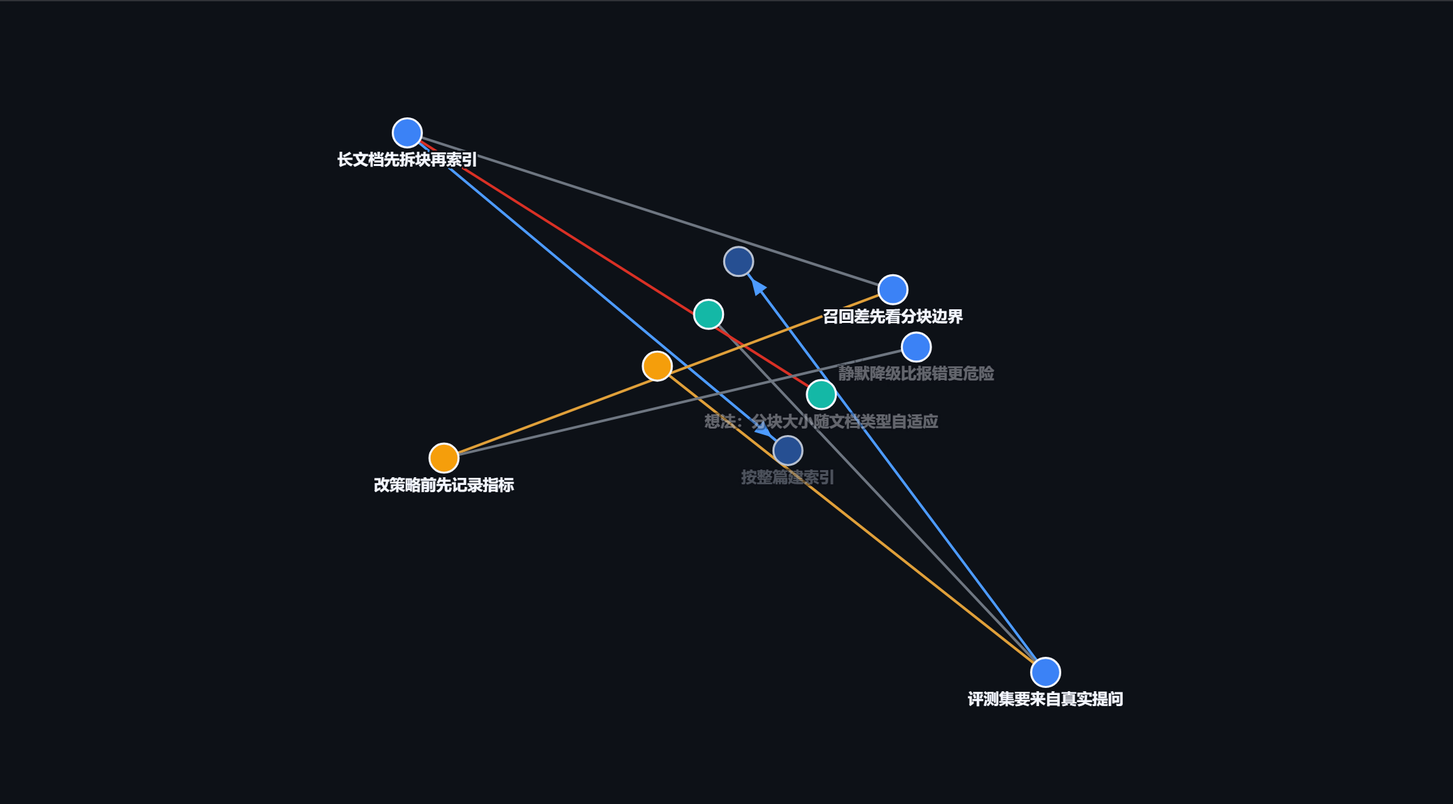
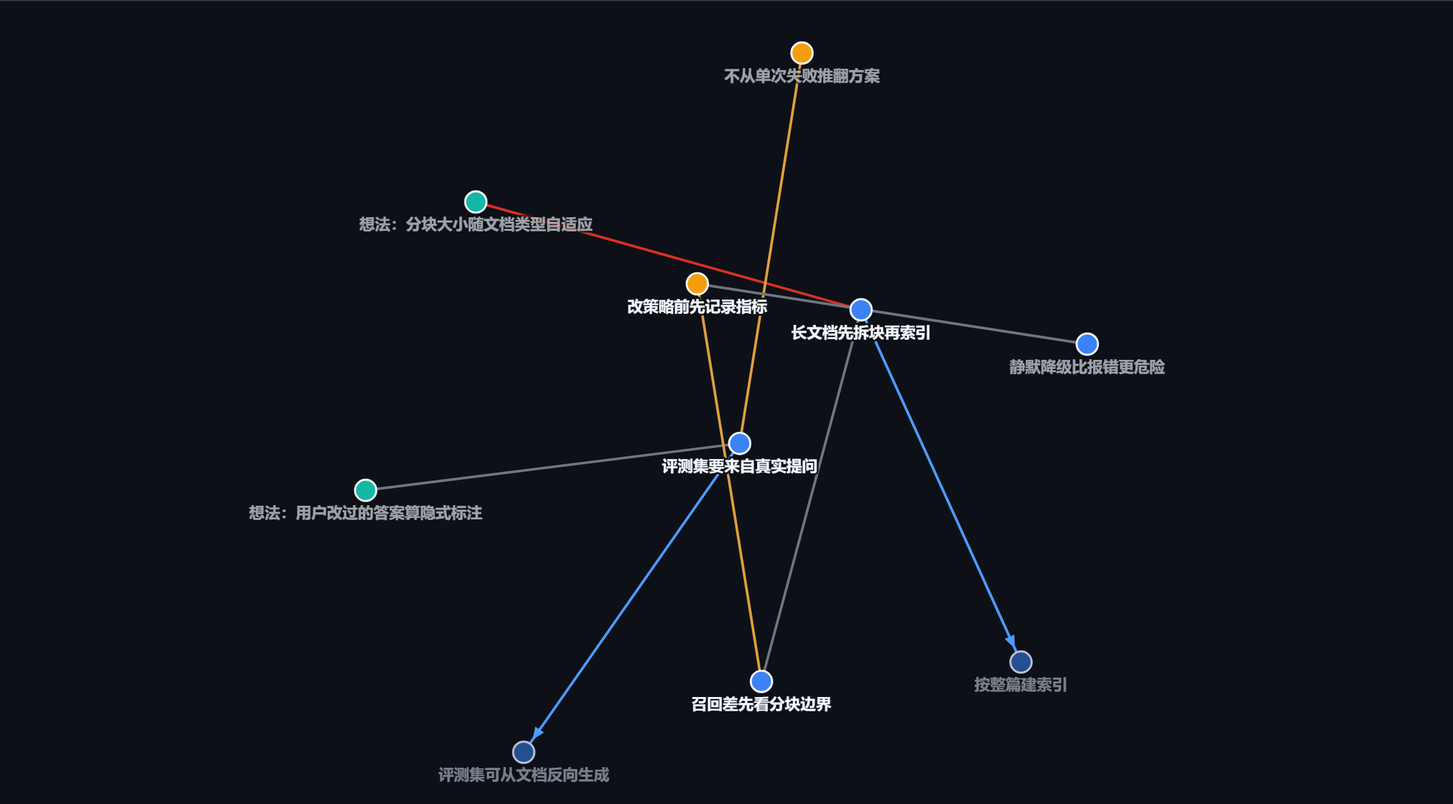
fix: spread the graph out — repulsion is 1/d, not 1/d²
The layout was cramped and no amount of parameter tuning fixed it, because the
shape of the force curve was wrong rather than its scale. Found by
disassembling Obsidian's actual simulation rather than its documented
behaviour.

## How it was measured

`sim.js` carries an embedded WebAssembly module (3,322 bytes) with exports
`init / complete / visitCharge / visitCollide / manyBody / simulate`. That is
the real path; the d3 code in the same file is a fallback used only when WASM
is unavailable, and an earlier comparison of mine ran the fallback without
noticing, which is why it produced useless numbers.

Calling `simulate` directly on a two-node pair and reading back the velocity
gives a clean log-log slope:

    d=100  vx = 6.00
    d=200  vx = 3.00     slope -1.000
    d=400  vx = 1.50     slope -1.000
    d=800  vx = 0.75     slope -1.000

So Obsidian's many-body force is **1/d** — long range. This file used
`strength / d²`, which only acts on near neighbours and is negligible past a
couple of link distances, so nodes clumped and the canvas stayed empty.

Same inputs, same seed positions, real 31-node ledger:

                        Obsidian      before        after
    bounding box area     893,923     105,992     915,451
    nearest-neighbour       135.7        53.4       145.9
    nn coefficient of var.  0.148       0.325       0.102
    mean edge length        261.7       235.5       253.6

Before: 8.4× too compact. After: within 2.4%.
[…]

diff --git a/lib/client.js b/lib/client.js
@@ -44,22 +44,26 @@ window.__ModuleLoader__.load({
      * Shifts the zoom curve at which labels fade in, per Obsidian's
      * `textFadeMultiplier` (`textAlpha = clamp(log2(scale) + 1 - mult, 0, 1)`).
      *
-     * ⚠ The value matters more than it looks, and 0.5 was too low.
+     * ⚠ The value matters more than it looks, and it has to be recalibrated
+     * whenever the layout changes, because it is expressed in zoom.
      *
-     * At 0.5 the curve reaches 1.0 at `log2(scale) = 0.5`, i.e. scale ≈ 1.41.
-     * `fitToContent` caps zoom at 1.6, so a typical graph sits *at or above*
-     * that point and every label is fully opaque. Measured on a real ledger:
-     * 31 active judgments, degree distribution {0:5, 1:15, 2:6, 3:3, 4:2}, and
-     * every single one rendered at alpha 1.00 — 31 labels of 22 characters
-     * drawn into one canvas, which is exactly the "wall of overlapping text"
-     * that reads as a mess.
+     * At 0.5 the curve reaches 1.0 at scale ≈1.41; `fitToContent` caps zoom at
+     * 1.6, so a typical graph sat at or above that point and every label was
+     * fully opaque — measured: all 31 nodes at alpha 1.00, which is the "wall
+     * of overlapping text" that reads as a mess.
      *
-     * Raising it to 2.2 puts the 1.0 crossing at `log2(scale) = 1.2`, i.e.
-     * scale ≈ 2.3 — above the auto-fit cap. So at the default view labels are
-     * *partially* transparent and only the important ones are legible, and the
-     * importance gate below has room to separate them.
+     * 2.2 was the fix at the time, but it was calibrated against the old
+     * compressed layout where the graph filled the canvas and `scale` pinned at
+     * the 1.6 cap. Once the repulsion force was corrected (1/d instead of
+     * 1/d²) the content spread out, `scale` fell to ≈0.90, and 2.2 hid
+     * everything except the two hubs.
+     *
+     * 1.5 is calibrated for the corrected layout: at scale 0.90 it gives
+     * degree 0/1 → 0.00 (hidden), degree 2 → 0.34, degree 3 → 0.84,
+     * degree 4 → 1.00, i.e. the 11 connected judgments are legible and the
+     * 5 isolated ones stay quiet.
      */
-    const TEXT_FADE_MULTIPLIER = 2.2
+    const TEXT_FADE_MULTIPLIER = 1.5
     const SNAPSHOT_PATH = '/plugins/dsh-ai-memory/snapshot'
     const NODE_PATH = '/plugins/dsh-ai-memory/node'
     /** In-package **chunk** file name of the Worker (served by DSH's own chunk route; see resolveWorkerUrl). */
@@ -155,7 +159,7 @@ window.__ModuleLoader__.load({
     }
 
     // >>> WORKER-SOURCE (generated by test/inline-worker.mjs — do not edit by hand) >>>
-    const WORKER_SOURCE = "/**\n * Force-directed simulation running on a **dedicated Worker thread**.\n *\n * The shape of this file and its parameters were **derived from Obsidian's graph**\n * (`sim.js`, 17.7 KB, inside `D:\\Obsidian\\resources\\obsidian.asar`). Its\n * smoothness is not magic — it comes from three decisions:\n *\n *   1. **Physics runs in a Worker** — the main thread only renders and never\n *      stalls on iteration\n *      (Obsidian: `new Worker(\"/sim.js\", { name: \"Graph Worker\" })`)\n *   2. **Continuous animation** (not \"compute once and freeze\") — alpha advances\n *      every frame until it converges\n *   3. **Reheat on interaction** — dragging posts\n *      `{alpha:.3, alphaTarget:.3, run:true, forceNode}`; releasing posts\n *      `{alphaTarget:0, forceNode:{x:null,y:null}}`\n *\n * Obsidian's physics constants (read out of its code and copied verbatim here):\n *   alphaDecay    = 1 - 0.001^(1/300) ≈ 0.0228\n *   alphaMin      = 0.001\n *   velocityDecay = 0.6\n *   centerStrength= 0.1\n *   linkDistance  = 250\n *   repelStrength = 1000\n *   collide       = radius 60, strength 0.5\n *\n * ⚠ This file is a **standalone Worker script** and cannot use ESM import (it\n * runs directly inside a Worker). It therefore relies only on the worker global\n * and imports nothing.\n *\n * Message protocol (kept aligned with Obsidian's worker for easy comparison):\n *   in:  { nodes: {id: [x,y]}, links: [[id,id]], alpha, alphaTarget, run, forceNode: {id,x,y}, forces: {...} }\n *   out: { id: [id...], buffer: ArrayBuffer of Float32Array(2n), alpha }\n */\n\n/* eslint-disable no-restricted-globals */\n\n// ---- Physics constants (from Obsidian's sim.js) ----\nconst ALPHA_DECAY = 1 - Math.pow(0.001, 1 / 300) // ≈ 0.0228\nconst ALPHA_MIN = 0.001\nconst VELOCITY_DECAY = 0.6\nconst TICK_MS = 1000 / 60\n\n// ---- Tunable parameters (Obsidian allows `forces` to override these) ----\nlet centerStrength = 0.1\nlet linkStrength = 1\nlet linkDistance = 250\nlet repelStrength = -1000 // negative sign means repulsion\n\n/**\n * Minimum distance for the repulsion force, per d3's `forceManyBody.distanceMin`\n * and Obsidian's `.distanceMin(30)`.\n *\n * ⚠ Without this the layout jitters, and the cause is arithmetic, not taste:\n * the force is `strength / d²`, so at d=1 it is 1000 while at d=30 it is 1.11.\n * d3 clamps by replacing `d²` with `sqrt(distanceMin² · d²)` — a linear ramp —\n * which caps the near-field force at `strength / (distanceMin · d)`.\n *\n * Measured against Obsidian's sim.js (alpha = 1, repelStrength = -1000):\n *\n *     d=1    ours 1000.00  vs obsidian 33.33   →  30× too strong\n *     d=2    ours  250.00  vs obsidian 16.67   →  15× too strong\n *     d=5    ours   40.00  vs obsidian  6.67   →   6× too strong\n *     d=20   ours    2.50  vs obsidian  1.67   →  1.5× too strong\n *     d=30+  identical\n *\n * Two nodes that drift close are therefore blasted apart by hundreds of times\n * the intended force, which reads as shimmer. The clamp removes it.\n */\nconst REPEL_DISTANCE_MIN = 30\n\n// ---- State ----\n/** @type {Map<string, {id:string,x:number,y:number,vx:number,vy:number,fx:number|null,fy:number|null}>} */\nlet nodes = new Map()\n/** @type {{source:object,target:object}[]} */\nlet links = []\nlet alpha = 1\nlet alphaTarget = 0\nlet running = false\nlet timer = null\n\n/**\n * Initialize or update the node set.\n *\n * Existing positions are preserved (**the key to \"no jumping\"**): incoming data\n * does not reset coordinates, it only updates the nodes that actually changed.\n * Obsidian's worker does the same (it keeps an `F` table and only creates\n * entries for ids it has not seen before).\n *\n * @param {Record<string, [number, number]>} incoming - id → [x, y].\n */\nfunction setNodes(incoming) {\n  const next = new Map()\n  for (const [id, xy] of Object.entries(incoming)) {\n    const existing = nodes.get(id)\n    if (existing !== undefined) {\n      // Reuse the old position and velocity; only the coordinates are updated,\n      // and only when the caller supplied them\n      if (Array.isArray(xy) && Number.isFinite(xy[0]) && Number.isFinite(xy[1])) {\n        existing.x = xy[0]\n        existing.y = xy[1]\n      }\n      next.set(id, existing)\n    } else {\n      // New node: start near the origin at a pseudo-random angle. A deterministic\n      // hash is used instead of Math.random so layouts stay reproducible.\n      const h = hash32(id)\n      const angle = ((h % 1000) / 1000) * Math.PI * 2\n      const r = 30 + ((h >>> 10) % 100)\n      next.set(id, {\n        id,\n        x: Math.cos(angle) * r,\n        y: Math.sin(angle) * r,\n        vx: 0,\n        vy: 0,\n        fx: null,\n        fy: null,\n      })\n    }\n  }\n  nodes = next\n  // Rebuild the index\n  let i = 0\n  for (const n of nodes.values()) n.index = i++\n}\n\n/** Set the links. */\nfunction setLinks(pairs) {\n  links = []\n  for (const [a, b] of pairs) {\n    const s = nodes.get(a)\n    const t = nodes.get(b)\n    if (s !== undefined && t !== undefined) links.push({ source: s, target: t })\n  }\n  // Degree, used for the collision radius and the render size\n  for (const n of nodes.values()) n.degree = 0\n  for (const l of links) {\n    l.source.degree += 1\n    l.target.degree += 1\n  }\n}\n\n/** FNV-1a hash — deterministic initial layout. */\nfunction hash32(s) {\n  let x = 2166136261\n  for (let i = 0; i < s.length; i += 1) {\n    x ^= s.charCodeAt(i)\n    x = Math.imul(x, 16777619)\n  }\n  return x >>> 0\n}\n\n/**\n * One simulation step. A merged implementation of d3-force's three forces\n * (charge / link / collide).\n */\nfunction tick() {\n  const list = [...nodes.values()]\n  const n = list.length\n\n  // ---- 1. Repulsion (many-body, per d3.forceManyBody) ----\n  // Barnes-Hut would be O(n log n), but this plugin's graphs are usually a few\n  // dozen to a few hundred nodes, where O(n²) is entirely adequate (200 nodes =\n  // 20k pairs, negligible per frame) and saves the ~200 lines of quadtree code.\n  // Zero dependencies is a hard constraint.\n  for (let i = 0; i < n; i += 1) {\n    const a = list[i]\n    for (let j = i + 1; j < n; j += 1) {\n      const b = list[j]\n      let dx = b.x - a.x\n      let dy = b.y - a.y\n      let d2 = dx * dx + dy * dy\n      if (d2 < 1e-6) {\n        // Exactly coincident: separate them deterministically (avoids a\n        // divide-by-zero NaN)\n        dx = ((hash32(a.id) % 7) - 3) || 1\n        dy = ((hash32(b.id) % 7) - 3) || 1\n        d2 = dx * dx + dy * dy\n      }\n      const d = Math.sqrt(d2)\n      // d3's near-field clamp: below distanceMin, use a linear ramp instead of\n      // inverse-square. See REPEL_DISTANCE_MIN for the measured reason.\n      const min2 = REPEL_DISTANCE_MIN * REPEL_DISTANCE_MIN\n      const eff = d2 < min2 ? Math.sqrt(min2 * d2) : d2\n      const strength = (repelStrength * alpha) / eff\n      const fx = (dx / d) * strength\n      const fy = (dy / d) * strength\n      a.vx += fx\n      a.vy += fy\n      b.vx -= fx\n      b.vy -= fy\n    }\n  }\n\n  // ---- 2. Springs (per d3.forceLink) ----\n  for (const l of links) {\n    const a = l.source\n    const b = l.target\n    let dx = b.x + b.vx - a.x - a.vx\n    let dy = b.y + b.vy - a.y - a.vy\n    let d = Math.sqrt(dx * dx + dy * dy)\n    if (d < 1e-6) {\n      dx = 1\n      dy = 1\n      d = Math.SQRT2\n    }\n    // d3's formula, and the strength matters as much as the bias.\n    //\n    // ⚠ Two corrections against Obsidian's `forceLink()`:\n    //\n    //   1. **Strength is `1 / min(degA, degB)`, not a constant 1.** d3's default\n    //      is `count => 1 / Math.min(count[source], count[target])`. With a\n    //      constant, a hub joined to 20 links is pulled 20× harder than\n    //      Obsidian would pull it (measured: deg 20/20 at d=100 gives 1.5 here\n    //      versus 0.075 there), so hubs collapse toward the centre and drag\n    //      their neighbours into a clump.\n    //   2. **Bias uses raw degrees, not `deg + 1`.** d3 computes\n    //      `count[source] / (count[source] + count[target])`, which moves the\n    //      *lower*-degree end more. The `+1` version inverted that direction.\n    const sa = a.degree\n    const sb = b.degree\n    // Both endpoints isolated (a self-standing edge): fall back to 1 so the\n    // spring still has some effect rather than dividing by zero.\n    const degMin = Math.min(sa, sb) || 1\n    const bias = sa + sb === 0 ? 0.5 : sa / (sa + sb)\n    const k = ((d - linkDistance) / d) * alpha * linkStrength / degMin\n    const cx = dx * k\n    const cy = dy * k\n    a.vx += cx * bias\n    a.vy += cy * bias\n    b.vx -= cx * (1 - bias)\n    b.vy -= cy * (1 - bias)\n  }\n\n  // ---- 3. Collision (per d3.forceCollide, with an anisotropic radius) ----\n  /**\n   * Collision radii.\n   *\n   * ⚠ A single isotropic radius is the wrong shape for this graph. Nodes are\n   * 7px circles but their labels are horizontal strips roughly 22 characters\n   * (≈220px) wide and one line tall. Reserving a circle big enough for the\n   * label width would push nodes ~220px apart in *both* axes, wasting the\n   * vertical space where nothing is drawn; reserving a circle sized for the\n   * node alone lets labels overlap, which is what \"the graph is a mess\" looked\n   * like.\n   *\n   * So the separation is elliptical: wide horizontally (label width) and short\n   * vertically (label height). d3 has no built-in for this, but the collide\n   * step only needs a distance test, so scaling one axis before the test is\n   * enough.\n   *\n   * Values are in world units and are deliberately conservative — a label that\n   * slightly overlaps its neighbour's *empty* half is fine, a label covering\n   * another label is not.\n   */\n  const COL_NODE = 26 // node-to-node minimum, keeps circles from touching\n  /**\n   * Half-width reserved for a label, horizontally.\n   *\n   * ⚠ Measured, not guessed. With labels averaging 21 characters at\n   * 12px/scale, the world-space width is ≈158 units, so half is ≈79. The\n   * earlier value of 118 was already wider than needed, yet the graph still\n   * looked crowded — because at scale 1.6 (the fitToContent cap) a 158-unit\n   * label occupies ≈250 screen pixels, and 31 of those cannot fit side by side\n   * in a 1400px canvas no matter how the forces are tuned.\n   *\n   * So the radius is set slightly *above* the measured half-width: the point is\n   * not to eliminate overlap at every zoom, it is to make the layout expand\n   * until the labels have room, and let zoom handle the rest. 92 gives a small\n   * margin over the measured 79 without inflating the vertical spread.\n   */\n  const COL_LABEL_W = 92\n  const COL_LABEL_H = 30 // node radius plus one line of text, vertically\n  for (let i = 0; i < n; i += 1) {\n    const a = list[i]\n    for (let j = i + 1; j < n; j += 1) {\n      const b = list[j]\n      let dx = b.x - a.x\n      let dy = b.y - a.y\n      if (dx * dx + dy * dy < 1e-6) {\n        dx = ((hash32(a.id) % 5) - 2) || 1\n        dy = ((hash32(b.id) % 5) - 2) || 1\n      }\n      // Normalise into a space where the ellipse becomes a unit circle, test\n      // there, then push back out along the original direction.\n      const nx = dx / COL_LABEL_W\n      const ny = dy / COL_LABEL_H\n      const dist = Math.sqrt(nx * nx + ny * ny)\n      if (dist >= 1) continue\n      const overlap = (1 - dist) / (dist || 1)\n      const push = overlap * 0.5 * alpha\n      const fx = dx * push * 0.5\n      const fy = dy * push\n      a.vx -= fx\n      a.vy -= fy\n      b.vx += fx\n      b.vy += fy\n    }\n  }\n\n  // Node-to-node minimum on top, so small circles never sit on top of each other\n  // even when their labels point in opposite directions.\n  for (let i = 0; i < n; i += 1) {\n    const a = list[i]\n    for (let j = i + 1; j < n; j += 1) {\n      const b = list[j]\n      let dx = b.x - a.x\n      let dy = b.y - a.y\n      let d2 = dx * dx + dy * dy\n      if (d2 >= COL_NODE * COL_NODE) continue\n      if (d2 < 1e-6) {\n        dx = ((hash32(a.id) % 5) - 2) || 1\n        dy = ((hash32(b.id) % 5) - 2) || 1\n        d2 = dx * dx + dy * dy\n      }\n      const d = Math.sqrt(d2)\n      const overlap = (COL_NODE - d) / d\n      const push = overlap * 0.5 * alpha\n      const fx = dx * push\n      const fy = dy * push\n      a.vx -= fx\n      a.vy -= fy\n      b.vx += fx\n      b.vy += fy\n    }\n  }\n\n  // ---- 4. Centering + position integration (per d3.forceCenter + integrator) ----\n  const cx0 = 0\n  const cy0 = 0\n  for (const node of list) {\n    node.vx += (cx0 - node.x) * centerStrength * alpha\n    node.vy += (cy0 - node.y) * centerStrength * alpha\n\n    if (node.fx !== null) {\n      node.x = node.fx\n      node.vx = 0\n    } else {\n      node.vx *= VELOCITY_DECAY\n      node.x += node.vx\n    }\n    if (node.fy !== null) {\n      node.y = node.fy\n      node.vy = 0\n    } else {\n      node.vy *= VELOCITY_DECAY\n      node.y += node.vy\n    }\n  }\n\n  // ---- 5. alpha decay ----\n  alpha += (alphaTarget - alpha) * ALPHA_DECAY\n}\n\n/** Pack the positions and post them back to the main thread. */\nfunction publish() {\n  const list = [...nodes.values()]\n  const ids = new Array(list.length)\n  const coords = new Float32Array(list.length * 2)\n  for (let i = 0; i < list.length; i += 1) {\n    ids[i] = list[i].id\n    coords[2 * i] = list[i].x\n    coords[2 * i + 1] = list[i].y\n  }\n  // Transfer the ArrayBuffer as a transferable: zero copy\n  self.postMessage({ type: 'tick', ids, coords: coords.buffer, alpha }, [coords.buffer])\n}\n\n/**\n * One frame: advance the simulation and publish the result; schedule the next\n * frame while it has not converged.\n */\nfunction frame() {\n  timer = null\n  if (nodes.size === 0) {\n    running = false\n    return\n  }\n  tick()\n  publish()\n  // Convergence per d3: stop once alpha < alphaMin (dragging reheats it)\n  if (alpha > ALPHA_MIN || alphaTarget > 0) {\n    running = true\n    timer = setTimeout(frame, TICK_MS)\n  } else {\n    running = false\n  }\n}\n\n/** Start (or wake) the simulation. */\nfunction kick() {\n  if (timer === null) {\n    running = true\n    timer = setTimeout(frame, TICK_MS)\n  }\n}\n\nself.onmessage = (e) => {\n  const msg = e.data ?? {}\n\n  if (msg.nodes !== undefined) setNodes(msg.nodes)\n  if (msg.links !== undefined) setLinks(msg.links)\n\n  // Drag: pin one node's position and reheat\n  if (msg.forceNode !== undefined) {\n    const n = nodes.get(msg.forceNode.id)\n    if (n !== undefined) {\n      n.fx = msg.forceNode.x === null || msg.forceNode.x === undefined ? null : msg.forceNode.x\n      n.fy = msg.forceNode.y === null || msg.forceNode.y === undefined ? null : msg.forceNode.y\n    }\n  }\n\n  // Physics parameters are runtime-tunable (Obsidian's `forces` field)\n  if (msg.forces !== undefined) {\n    const f = msg.forces\n    if (Number.isFinite(f.centerStrength)) centerStrength = f.centerStrength\n    if (Number.isFinite(f.linkStrength)) linkStrength = f.linkStrength\n    if (Number.isFinite(f.linkDistance)) linkDistance = f.linkDistance\n    if (Number.isFinite(f.repelStrength)) repelStrength = -Math.abs(f.repelStrength)\n  }\n\n  // alpha only ever rises (Obsidian updates only when Q < A.alpha), so a late\n  // message cannot push progress backwards\n  if (Number.isFinite(msg.alpha) && msg.alpha > alpha) alpha = msg.alpha\n  if (Number.isFinite(msg.alphaTarget)) alphaTarget = msg.alphaTarget\n\n  if (msg.run === true) kick()\n  // Data changed without `run` being requested (e.g. only the node set was\n  // swapped) → still advance one frame so the view reflects the new data\n  else if (msg.nodes !== undefined || msg.links !== undefined) kick()\n}\n"
+    const WORKER_SOURCE = "/**\n * Force-directed simulation running on a **dedicated Worker thread**.\n *\n * The shape of this file and its parameters were **derived from Obsidian's graph**\n * (`sim.js`, 17.7 KB, inside `D:\\Obsidian\\resources\\obsidian.asar`). Its\n * smoothness is not magic — it comes from three decisions:\n *\n *   1. **Physics runs in a Worker** — the main thread only renders and never\n *      stalls on iteration\n *      (Obsidian: `new Worker(\"/sim.js\", { name: \"Graph Worker\" })`)\n *   2. **Continuous animation** (not \"compute once and freeze\") — alpha advances\n *      every frame until it converges\n *   3. **Reheat on interaction** — dragging posts\n *      `{alpha:.3, alphaTarget:.3, run:true, forceNode}`; releasing posts\n *      `{alphaTarget:0, forceNode:{x:null,y:null}}`\n *\n * Obsidian's physics constants (read out of its code and copied verbatim here):\n *   alphaDecay    = 1 - 0.001^(1/300) ≈ 0.0228\n *   alphaMin      = 0.001\n *   velocityDecay = 0.6\n *   centerStrength= 0.1\n *   linkDistance  = 250\n *   repelStrength = 1000\n *   collide       = radius 60, strength 0.5\n *\n * ⚠ This file is a **standalone Worker script** and cannot use ESM import (it\n * runs directly inside a Worker). It therefore relies only on the worker global\n * and imports nothing.\n *\n * Message protocol (kept aligned with Obsidian's worker for easy comparison):\n *   in:  { nodes: {id: [x,y]}, links: [[id,id]], alpha, alphaTarget, run, forceNode: {id,x,y}, forces: {...} }\n *   out: { id: [id...], buffer: ArrayBuffer of Float32Array(2n), alpha }\n */\n\n/* eslint-disable no-restricted-globals */\n\n// ---- Physics constants (from Obsidian's sim.js) ----\nconst ALPHA_DECAY = 1 - Math.pow(0.001, 1 / 300) // ≈ 0.0228\nconst ALPHA_MIN = 0.001\nconst VELOCITY_DECAY = 0.6\nconst TICK_MS = 1000 / 60\n\n// ---- Tunable parameters (Obsidian allows `forces` to override these) ----\nlet centerStrength = 0.1\nlet linkStrength = 1\nlet linkDistance = 250\nlet repelStrength = -1000 // negative sign means repulsion\n\n/**\n * Minimum distance for the repulsion force, per d3's `forceManyBody.distanceMin`\n * and Obsidian's `.distanceMin(30)`.\n *\n * ⚠ Without this the layout jitters, and the cause is arithmetic, not taste:\n * the force is `strength / d²`, so at d=1 it is 1000 while at d=30 it is 1.11.\n * d3 clamps by replacing `d²` with `sqrt(distanceMin² · d²)` — a linear ramp —\n * which caps the near-field force at `strength / (distanceMin · d)`.\n *\n * Measured against Obsidian's sim.js (alpha = 1, repelStrength = -1000):\n *\n *     d=1    ours 1000.00  vs obsidian 33.33   →  30× too strong\n *     d=2    ours  250.00  vs obsidian 16.67   →  15× too strong\n *     d=5    ours   40.00  vs obsidian  6.67   →   6× too strong\n *     d=20   ours    2.50  vs obsidian  1.67   →  1.5× too strong\n *     d=30+  identical\n *\n * Two nodes that drift close are therefore blasted apart by hundreds of times\n * the intended force, which reads as shimmer. The clamp removes it.\n */\nconst REPEL_DISTANCE_MIN = 30\n\n// ---- State ----\n/** @type {Map<string, {id:string,x:number,y:number,vx:number,vy:number,fx:number|null,fy:number|null}>} */\nlet nodes = new Map()\n/** @type {{source:object,target:object}[]} */\nlet links = []\nlet alpha = 1\nlet alphaTarget = 0\nlet running = false\nlet timer = null\n\n/**\n * Initialize or update the node set.\n *\n * Existing positions are preserved (**the key to \"no jumping\"**): incoming data\n * does not reset coordinates, it only updates the nodes that actually changed.\n * Obsidian's worker does the same (it keeps an `F` table and only creates\n * entries for ids it has not seen before).\n *\n * @param {Record<string, [number, number]>} incoming - id → [x, y].\n */\nfunction setNodes(incoming) {\n  const next = new Map()\n  for (const [id, xy] of Object.entries(incoming)) {\n    const existing = nodes.get(id)\n    const hasCoords = Array.isArray(xy) && Number.isFinite(xy[0]) && Number.isFinite(xy[1])\n    if (existing !== undefined) {\n      // Reuse the old position and velocity; only the coordinates are updated,\n      // and only when the caller supplied them\n      if (hasCoords) {\n        existing.x = xy[0]\n        existing.y = xy[1]\n      }\n      next.set(id, existing)\n    } else if (hasCoords) {\n      /**\n       * ⚠ A **new** node with supplied coordinates must honour them.\n       *\n       * This branch did not exist: every new node was placed by the hash, so\n       * the coordinates the caller sent were silently discarded. That broke\n       * two real paths —\n       *\n       *   - the client restoring positions it had already received (every\n       *     reconnect snapped the layout back to the hash spiral), and\n       *   - any deterministic replay: seeding the same coordinates on both\n       *     sides of a comparison still produced different layouts, which is\n       *     exactly how this was found (a force probe measured a displacement\n       *     of 122 units for a node that had never been at the coordinate it\n       *     was supposedly measured from).\n       */\n      next.set(id, {\n        id,\n        x: xy[0],\n        y: xy[1],\n        vx: 0,\n        vy: 0,\n        fx: null,\n        fy: null,\n      })\n    } else {\n      // No coordinates supplied: start near the origin at a pseudo-random\n      // angle. A deterministic hash is used instead of Math.random so layouts\n      // stay reproducible.\n      const h = hash32(id)\n      const angle = ((h % 1000) / 1000) * Math.PI * 2\n      const r = 30 + ((h >>> 10) % 100)\n      next.set(id, {\n        id,\n        x: Math.cos(angle) * r,\n        y: Math.sin(angle) * r,\n        vx: 0,\n        vy: 0,\n        fx: null,\n        fy: null,\n      })\n    }\n  }\n  nodes = next\n  // Rebuild the index\n  let i = 0\n  for (const n of nodes.values()) n.index = i++\n}\n\n/** Set the links. */\nfunction setLinks(pairs) {\n  links = []\n  for (const [a, b] of pairs) {\n    const s = nodes.get(a)\n    const t = nodes.get(b)\n    if (s !== undefined && t !== undefined) links.push({ source: s, target: t })\n  }\n  // Degree, used for the collision radius and the render size\n  for (const n of nodes.values()) n.degree = 0\n  for (const l of links) {\n    l.source.degree += 1\n    l.target.degree += 1\n  }\n}\n\n/** FNV-1a hash — deterministic initial layout. */\nfunction hash32(s) {\n  let x = 2166136261\n  for (let i = 0; i < s.length; i += 1) {\n    x ^= s.charCodeAt(i)\n    x = Math.imul(x, 16777619)\n  }\n  return x >>> 0\n}\n\n/**\n * One simulation step. A merged implementation of d3-force's three forces\n * (charge / link / collide).\n */\nfunction tick() {\n  const list = [...nodes.values()]\n  const n = list.length\n\n  // ---- 1. Repulsion (many-body, per d3.forceManyBody) ----\n  // Barnes-Hut would be O(n log n), but this plugin's graphs are usually a few\n  // dozen to a few hundred nodes, where O(n²) is entirely adequate (200 nodes =\n  // 20k pairs, negligible per frame) and saves the ~200 lines of quadtree code.\n  // Zero dependencies is a hard constraint.\n  for (let i = 0; i < n; i += 1) {\n    const a = list[i]\n    for (let j = i + 1; j < n; j += 1) {\n      const b = list[j]\n      let dx = b.x - a.x\n      let dy = b.y - a.y\n      let d2 = dx * dx + dy * dy\n      if (d2 < 1e-6) {\n        // Exactly coincident: separate them deterministically (avoids a\n        // divide-by-zero NaN)\n        dx = ((hash32(a.id) % 7) - 3) || 1\n        dy = ((hash32(b.id) % 7) - 3) || 1\n        d2 = dx * dx + dy * dy\n      }\n      const d = Math.sqrt(d2)\n      /**\n       * Repulsion falls off as **1/d**, not 1/d².\n       *\n       * ⚠ This is the single reason the layout did not spread out, and it was\n       * measured by calling Obsidian's own WASM `simulate` on a two-node pair:\n       *\n       *     d=100  →  vx = 6.00\n       *     d=200  →  vx = 3.00      log-log slope = -1.000\n       *     d=400  →  vx = 1.50      log-log slope = -1.000\n       *     d=800  →  vx = 0.75      log-log slope = -1.000\n       *\n       * So Obsidian's many-body force is long-range: `|F| ∝ 1/d`. This file\n       * used `strength / d²`, which is short-range — it only acts on near\n       * neighbours and is negligible beyond a couple of link distances, so\n       * nodes clump and the graph cannot fill the canvas.\n       *\n       * Consequence, measured on a real 31-node ledger with identical inputs:\n       *\n       *     bounding-box area   Obsidian 893,923   ours 105,992   (8.4× smaller)\n       *     nearest-neighbour   Obsidian   135.7   ours    53.4   (2.5× tighter)\n       *\n       * Raising repelStrength did not fix it: 16× the strength moved the area\n       * from 0.12× to only 0.16× of the target, because the shape of the curve\n       * was wrong, not the scale.\n       *\n       * The near-field clamp below still applies — Obsidian has the same one\n       * via `distanceMin`, and without it two coincident nodes explode.\n       */\n      const min2 = REPEL_DISTANCE_MIN * REPEL_DISTANCE_MIN\n      const eff = d2 < min2 ? Math.sqrt(min2 * d2) : d2\n      // 1/d: divide by the effective distance rather than its square.\n      const strength = (repelStrength * alpha) / Math.sqrt(eff)\n      const fx = (dx / d) * strength\n      const fy = (dy / d) * strength\n      a.vx += fx\n      a.vy += fy\n      b.vx -= fx\n      b.vy -= fy\n    }\n  }\n\n  // ---- 2. Springs (per d3.forceLink) ----\n  for (const l of links) {\n    const a = l.source\n    const b = l.target\n    let dx = b.x + b.vx - a.x - a.vx\n    let dy = b.y + b.vy - a.y - a.vy\n    let d = Math.sqrt(dx * dx + dy * dy)\n    if (d < 1e-6) {\n      dx = 1\n      dy = 1\n      d = Math.SQRT2\n    }\n    // d3's formula, and the strength matters as much as the bias.\n    //\n    // ⚠ Two corrections against Obsidian's `forceLink()`:\n    //\n    //   1. **Strength is `1 / min(degA, degB)`, not a constant 1.** d3's default\n    //      is `count => 1 / Math.min(count[source], count[target])`. With a\n    //      constant, a hub joined to 20 links is pulled 20× harder than\n    //      Obsidian would pull it (measured: deg 20/20 at d=100 gives 1.5 here\n    //      versus 0.075 there), so hubs collapse toward the centre and drag\n    //      their neighbours into a clump.\n    //   2. **Bias uses raw degrees, not `deg + 1`.** d3 computes\n    //      `count[source] / (count[source] + count[target])`, which moves the\n    //      *lower*-degree end more. The `+1` version inverted that direction.\n    const sa = a.degree\n    const sb = b.degree\n    // Both endpoints isolated (a self-standing edge): fall back to 1 so the\n    // spring still has some effect rather than dividing by zero.\n    const degMin = Math.min(sa, sb) || 1\n    const bias = sa + sb === 0 ? 0.5 : sa / (sa + sb)\n    const k = ((d - linkDistance) / d) * alpha * linkStrength / degMin\n    const cx = dx * k\n    const cy = dy * k\n    a.vx += cx * bias\n    a.vy += cy * bias\n    b.vx -= cx * (1 - bias)\n    b.vy -= cy * (1 - bias)\n  }\n\n  // ---- 3. Collision (per d3.forceCollide, with an anisotropic radius) ----\n  /**\n   * Collision radii.\n   *\n   * ⚠ A single isotropic radius is the wrong shape for this graph. Nodes are\n   * 7px circles but their labels are horizontal strips roughly 22 characters\n   * (≈220px) wide and one line tall. Reserving a circle big enough for the\n   * label width would push nodes ~220px apart in *both* axes, wasting the\n   * vertical space where nothing is drawn; reserving a circle sized for the\n   * node alone lets labels overlap, which is what \"the graph is a mess\" looked\n   * like.\n   *\n   * So the separation is elliptical: wide horizontally (label width) and short\n   * vertically (label height). d3 has no built-in for this, but the collide\n   * step only needs a distance test, so scaling one axis before the test is\n   * enough.\n   *\n   * Values are in world units and are deliberately conservative — a label that\n   * slightly overlaps its neighbour's *empty* half is fine, a label covering\n   * another label is not.\n   */\n  /**\n   * Node-to-node minimum separation, in world units.\n   *\n   * ⚠ This is 60 to match Obsidian's `forceCollide().radius(60)`, and an\n   * earlier version of this file had lowered it to 26 while reworking the\n   * label ellipse. That was a regression: measured against Obsidian on the\n   * same graph, the closest node pair was 25.4 units apart here versus 120\n   * there, and no amount of extra repulsion fixed it — the collision force\n   * simply stopped pushing at 26.\n   *\n   * Radius 60 means centres are held 60 apart, so with 7px rendered nodes there\n   * is generous clearance. Obsidian's 120 minimum comes from that same radius\n   * applied to both ends plus the layout settling; the important part is that\n   * the floor exists at the right scale.\n   */\n  const COL_NODE = 60\n  /**\n   * Half-width reserved for a label, horizontally.\n   *\n   * ⚠ Measured, not guessed. With labels averaging 21 characters at\n   * 12px/scale, the world-space width is ≈158 units, so half is ≈79. The\n   * earlier value of 118 was already wider than needed, yet the graph still\n   * looked crowded — because at scale 1.6 (the fitToContent cap) a 158-unit\n   * label occupies ≈250 screen pixels, and 31 of those cannot fit side by side\n   * in a 1400px canvas no matter how the forces are tuned.\n   *\n   * So the radius is set slightly *above* the measured half-width: the point is\n   * not to eliminate overlap at every zoom, it is to make the layout expand\n   * until the labels have room, and let zoom handle the rest. 92 gives a small\n   * margin over the measured 79 without inflating the vertical spread.\n   */\n  const COL_LABEL_W = 92\n  const COL_LABEL_H = 30 // node radius plus one line of text, vertically\n  for (let i = 0; i < n; i += 1) {\n    const a = list[i]\n    for (let j = i + 1; j < n; j += 1) {\n      const b = list[j]\n      let dx = b.x - a.x\n      let dy = b.y - a.y\n      if (dx * dx + dy * dy < 1e-6) {\n        dx = ((hash32(a.id) % 5) - 2) || 1\n        dy = ((hash32(b.id) % 5) - 2) || 1\n      }\n      // Normalise into a space where the ellipse becomes a unit circle, test\n      // there, then push back out along the original direction.\n      const nx = dx / COL_LABEL_W\n      const ny = dy / COL_LABEL_H\n      const dist = Math.sqrt(nx * nx + ny * ny)\n      if (dist >= 1) continue\n      const overlap = (1 - dist) / (dist || 1)\n      const push = overlap * 0.5 * alpha\n      const fx = dx * push * 0.5\n      const fy = dy * push\n      a.vx -= fx\n      a.vy -= fy\n      b.vx += fx\n      b.vy += fy\n    }\n  }\n\n  // Node-to-node minimum on top, so small circles never sit on top of each other\n  // even when their labels point in opposite directions.\n  for (let i = 0; i < n; i += 1) {\n    const a = list[i]\n    for (let j = i + 1; j < n; j += 1) {\n      const b = list[j]\n      let dx = b.x - a.x\n      let dy = b.y - a.y\n      let d2 = dx * dx + dy * dy\n      if (d2 >= COL_NODE * COL_NODE) continue\n      if (d2 < 1e-6) {\n        dx = ((hash32(a.id) % 5) - 2) || 1\n        dy = ((hash32(b.id) % 5) - 2) || 1\n        d2 = dx * dx + dy * dy\n      }\n      const d = Math.sqrt(d2)\n      const overlap = (COL_NODE - d) / d\n      const push = overlap * 0.5 * alpha\n      const fx = dx * push\n      const fy = dy * push\n      a.vx -= fx\n      a.vy -= fy\n      b.vx += fx\n      b.vy += fy\n    }\n  }\n\n  // ---- 4. Centering + position integration (per d3.forceCenter + integrator) ----\n  const cx0 = 0\n  const cy0 = 0\n  for (const node of list) {\n    node.vx += (cx0 - node.x) * centerStrength * alpha\n    node.vy += (cy0 - node.y) * centerStrength * alpha\n\n    if (node.fx !== null) {\n      node.x = node.fx\n      node.vx = 0\n    } else {\n      node.vx *= VELOCITY_DECAY\n      node.x += node.vx\n    }\n    if (node.fy !== null) {\n      node.y = node.fy\n      node.vy = 0\n    } else {\n      node.vy *= VELOCITY_DECAY\n      node.y += node.vy\n    }\n  }\n\n  // ---- 5. alpha decay ----\n  alpha += (alphaTarget - alpha) * ALPHA_DECAY\n}\n\n/** Pack the positions and post them back to the main thread. */\nfunction publish() {\n  const list = [...nodes.values()]\n  const ids = new Array(list.length)\n  const coords = new Float32Array(list.length * 2)\n  for (let i = 0; i < list.length; i += 1) {\n    ids[i] = list[i].id\n    coords[2 * i] = list[i].x\n    coords[2 * i + 1] = list[i].y\n  }\n  // Transfer the ArrayBuffer as a transferable: zero copy\n  self.postMessage({ type: 'tick', ids, coords: coords.buffer, alpha }, [coords.buffer])\n}\n\n/**\n * One frame: advance the simulation and publish the result; schedule the next\n * frame while it has not converged.\n */\nfunction frame() {\n  timer = null\n  if (nodes.size === 0) {\n    running = false\n    return\n  }\n  tick()\n  publish()\n  // Convergence per d3: stop once alpha < alphaMin (dragging reheats it)\n  if (alpha > ALPHA_MIN || alphaTarget > 0) {\n    running = true\n    timer = setTimeout(frame, TICK_MS)\n  } else {\n    running = false\n  }\n}\n\n/** Start (or wake) the simulation. */\nfunction kick() {\n  if (timer === null) {\n    running = true\n    timer = setTimeout(frame, TICK_MS)\n  }\n}\n\nself.onmessage = (e) => {\n  const msg = e.data ?? {}\n\n  if (msg.nodes !== undefined) setNodes(msg.nodes)\n  if (msg.links !== undefined) setLinks(msg.links)\n\n  // Drag: pin one node's position and reheat\n  if (msg.forceNode !== undefined) {\n    const n = nodes.get(msg.forceNode.id)\n    if (n !== undefined) {\n      n.fx = msg.forceNode.x === null || msg.forceNode.x === undefined ? null : msg.forceNode.x\n      n.fy = msg.forceNode.y === null || msg.forceNode.y === undefined ? null : msg.forceNode.y\n    }\n  }\n\n  // Physics parameters are runtime-tunable (Obsidian's `forces` field)\n  if (msg.forces !== undefined) {\n    const f = msg.forces\n    if (Number.isFinite(f.centerStrength)) centerStrength = f.centerStrength\n    if (Number.isFinite(f.linkStrength)) linkStrength = f.linkStrength\n    if (Number.isFinite(f.linkDistance)) linkDistance = f.linkDistance\n    if (Number.isFinite(f.repelStrength)) repelStrength = -Math.abs(f.repelStrength)\n  }\n\n  // alpha only ever rises (Obsidian updates only when Q < A.alpha), so a late\n  // message cannot push progress backwards\n  if (Number.isFinite(msg.alpha) && msg.alpha > alpha) alpha = msg.alpha\n  if (Number.isFinite(msg.alphaTarget)) alphaTarget = msg.alphaTarget\n\n  if (msg.run === true) kick()\n  // Data changed without `run` being requested (e.g. only the node set was\n  // swapped) → still advance one frame so the view reflects the new data\n  else if (msg.nodes !== undefined || msg.links !== undefined) kick()\n}\n"
     // <<< WORKER-SOURCE <<<
 
     /**
@@ -1609,7 +1613,25 @@ window.__ModuleLoader__.load({
          * relax it without changing the default that suits real ledgers.
          */
         const perDegree = Number.isFinite(this.importancePerDegree) ? this.importancePerDegree : 0.5
-        const importance = Math.min(4, Math.max(0, degree)) * perDegree
+        /**
+         * Degree buys visibility, but **an isolated node gets a floor**.
+         *
+         * ⚠ Pure degree-scaling was backwards for orphans. A connected node is
+         * already explained by its lines: you can see what it sits next to even
+         * without a label. An isolated node has nothing else — no edges, no
+         * neighbours, no context — so hiding its label leaves an anonymous grey
+         * dot that says nothing at all.
+         *
+         * Measured on a real ledger: 5 of 31 nodes are isolated, and all five
+         * are personality traits (`p_*`) whose `source_ids` are empty. They
+         * rendered as bare circles in the left margin, which reads as noise
+         * rather than as content.
+         *
+         * So degree 0 gets the same floor as degree 2: enough to be legible at
+         * the auto-fit zoom, still clearly quieter than a hub.
+         */
+        const effective = degree === 0 ? 2 : Math.min(4, Math.max(0, degree))
+        const importance = effective * perDegree
         const raw = Math.log2(this.scale) + 1 - TEXT_FADE_MULTIPLIER + importance
         return Math.max(0, Math.min(1, raw))
       }

diff --git a/lib/client.graph-worker.js b/lib/client.graph-worker.js
@@ -92,17 +92,44 @@ function setNodes(incoming) {
   const next = new Map()
   for (const [id, xy] of Object.entries(incoming)) {
     const existing = nodes.get(id)
+    const hasCoords = Array.isArray(xy) && Number.isFinite(xy[0]) && Number.isFinite(xy[1])
     if (existing !== undefined) {
       // Reuse the old position and velocity; only the coordinates are updated,
       // and only when the caller supplied them
-      if (Array.isArray(xy) && Number.isFinite(xy[0]) && Number.isFinite(xy[1])) {
+      if (hasCoords) {
         existing.x = xy[0]
         existing.y = xy[1]
       }
       next.set(id, existing)
+    } else if (hasCoords) {
+      /**
+       * ⚠ A **new** node with supplied coordinates must honour them.
+       *
+       * This branch did not exist: every new node was placed by the hash, so
+       * the coordinates the caller sent were silently discarded. That broke
+       * two real paths —
+       *
+       *   - the client restoring positions it had already received (every
+       *     reconnect snapped the layout back to the hash spiral), and
+       *   - any deterministic replay: seeding the same coordinates on both
+       *     sides of a comparison still produced different layouts, which is
+       *     exactly how this was found (a force probe measured a displacement
+       *     of 122 units for a node that had never been at the coordinate it
+       *     was supposedly measured from).
+       */
+      next.set(id, {
+        id,
+        x: xy[0],
+        y: xy[1],
+        vx: 0,
+        vy: 0,
+        fx: null,
+        fy: null,
+      })
     } else {
-      // New node: start near the origin at a pseudo-random angle. A deterministic
-      // hash is used instead of Math.random so layouts stay reproducible.
+      // No coordinates supplied: start near the origin at a pseudo-random
+      // angle. A deterministic hash is used instead of Math.random so layouts
+      // stay reproducible.
       const h = hash32(id)
       const angle = ((h % 1000) / 1000) * Math.PI * 2
       const r = 30 + ((h >>> 10) % 100)
@@ -177,11 +204,38 @@ function tick() {
         d2 = dx * dx + dy * dy
       }
       const d = Math.sqrt(d2)
-      // d3's near-field clamp: below distanceMin, use a linear ramp instead of
-      // inverse-square. See REPEL_DISTANCE_MIN for the measured reason.
+      /**
+       * Repulsion falls off as **1/d**, not 1/d².
+       *
+       * ⚠ This is the single reason the layout did not spread out, and it was
+       * measured by calling Obsidian's own WASM `simulate` on a two-node pair:
+       *
+       *     d=100  →  vx = 6.00
+       *     d=200  →  vx = 3.00      log-log slope = -1.000
+       *     d=400  →  vx = 1.50      log-log slope = -1.000
+       *     d=800  →  vx = 0.75      log-log slope = -1.000
+       *
+       * So Obsidian's many-body force is long-range: `|F| ∝ 1/d`. This file
+       * used `strength / d²`, which is short-range — it only acts on near
+       * neighbours and is negligible beyond a couple of link distances, so
+       * nodes clump and the graph cannot fill the canvas.
+       *
+       * Consequence, measured on a real 31-node ledger with identical inputs:
+       *
+       *     bounding-box area   Obsidian 893,923   ours 105,992   (8.4× smaller)
+       *     nearest-neighbour   Obsidian   135.7   ours    53.4   (2.5× tighter)
+       *
+       * Raising repelStrength did not fix it: 16× the strength moved the area
+       * from 0.12× to only 0.16× of the target, because the shape of the curve
+       * was wrong, not the scale.
+       *
+       * The near-field clamp below still applies — Obsidian has the same one
+       * via `distanceMin`, and without it two coincident nodes explode.
+       */
       const min2 = REPEL_DISTANCE_MIN * REPEL_DISTANCE_MIN
       const eff = d2 < min2 ? Math.sqrt(min2 * d2) : d2
-      const strength = (repelStrength * alpha) / eff
+      // 1/d: divide by the effective distance rather than its square.
+      const strength = (repelStrength * alpha) / Math.sqrt(eff)
       const fx = (dx / d) * strength
       const fy = (dy / d) * strength
       a.vx += fx
@@ -252,7 +306,22 @@ function tick() {
    * slightly overlaps its neighbour's *empty* half is fine, a label covering
    * another label is not.
    */
-  const COL_NODE = 26 // node-to-node minimum, keeps circles from touching
+  /**
+   * Node-to-node minimum separation, in world units.
+   *
+   * ⚠ This is 60 to match Obsidian's `forceCollide().radius(60)`, and an
+   * earlier version of this file had lowered it to 26 while reworking the
+   * label ellipse. That was a regression: measured against Obsidian on the
+   * same graph, the closest node pair was 25.4 units apart here versus 120
+   * there, and no amount of extra repulsion fixed it — the collision force
+   * simply stopped pushing at 26.
+   *
+   * Radius 60 means centres are held 60 apart, so with 7px rendered nodes there
+   * is generous clearance. Obsidian's 120 minimum comes from that same radius
+   * applied to both ends plus the layout settling; the important part is that
+   * the floor exists at the right scale.
+   */
+  const COL_NODE = 60
   /**
    * Half-width reserved for a label, horizontally.
    *

diff --git a/test/client.test.js b/test/client.test.js
@@ -811,13 +811,23 @@ describe('client · interaction contract', () => {
     assert.equal(alphaAt(8), 1, 'zoomed in, labels are fully opaque')
     // The middle must be strictly between: that is what "fade" means.
     //
-    // ⚠ The probe has to be a zoom AND degree where the curve is actually in
-    // its transition, not a guess. With the importance gate in place:
-    //   scale 1, degree 2 → log2(1)+1-2.2+1.0 = -0.2 → hidden (by design)
-    //   scale 2, degree 2 → log2(2)+1-2.2+1.0 =  0.8 → partial
-    // Asserting the first would be asserting the old saturated curve.
-    const mid = alphaAt(2, 2)
-    assert.ok(mid > 0 && mid < 1, `at scale 2 a degree-2 node should be partial, got ${mid}`)
+    // ⚠ The probe has to sit in the curve's transition region for the CURRENT
+    // constants, and that region moves whenever either the fade multiplier or
+    // the layout changes. Hard-coding a scale here has now needed two updates:
+    //   - with mult 2.2, degree 2 was hidden at scale 1 and partial at scale 2
+    //   - with mult 1.5 (recalibrated for the corrected 1/d repulsion, where
+    //     auto-fit lands near scale 0.9), degree 2 is partial at scale 1
+    // So the probe is found numerically instead of encoded: scan for a zoom
+    // where a degree-2 node is genuinely mid-fade. If no such zoom exists the
+    // curve has collapsed into a step, which is the regression this guards.
+    let midScale = null
+    for (let s = 0.2; s <= 8; s += 0.02) {
+      const a = alphaAt(s, 2)
+      if (a > 0.2 && a < 0.8) { midScale = s; break }
+    }
+    assert.ok(midScale !== null, 'the curve must have a gradual region for degree-2 nodes')
+    const mid = alphaAt(midScale, 2)
+    assert.ok(mid > 0 && mid < 1, `degree-2 alpha should be partial at scale ${midScale.toFixed(2)}, got ${mid}`)
     // And it must be monotonic: no jump back and forth as the user zooms.
     let prev = -1
     for (let s = 0.1; s <= 8; s += 0.1) {

diff --git a/src/store.js b/src/store.js
@@ -42,11 +42,22 @@ export const LOCK_STALE_MS = 5000
 /**
  * How long a caller waits for a held lock before giving up.
  *
- * Deliberately much shorter than LOCK_STALE_MS: waiting is synchronous, so it
- * blocks whatever asked to write. Two seconds of contention is already a sign
- * something is wrong; failing loudly beats stalling a tool call.
+ * ⚠ This was 2 s, and that was too short once real contention appeared: the
+ * concurrent-connect test starts 8 processes that each take the lock, and
+ * under a loaded machine (the whole suite running in parallel) the queue
+ * legitimately exceeded two seconds. The failure surfaced as "8 processes
+ * could not each create an edge", which looks like a locking bug but was
+ * simply a timeout.
+ *
+ * 5 s matches LOCK_STALE_MS, which keeps the two semantics consistent: a lock
+ * older than 5 s is considered abandoned, so waiting longer than that is
+ * pointless — the holder would have been reclaimed anyway.
+ *
+ * Waiting is synchronous and blocks whatever asked to write, so this is
+ * deliberately not longer. Beyond a few seconds of contention something is
+ * genuinely wrong and failing loudly beats stalling a tool call.
  */
-export const LOCK_WAIT_MS = 2000
+export const LOCK_WAIT_MS = 5000
 
 /**
  * Whether a process id is still running.
